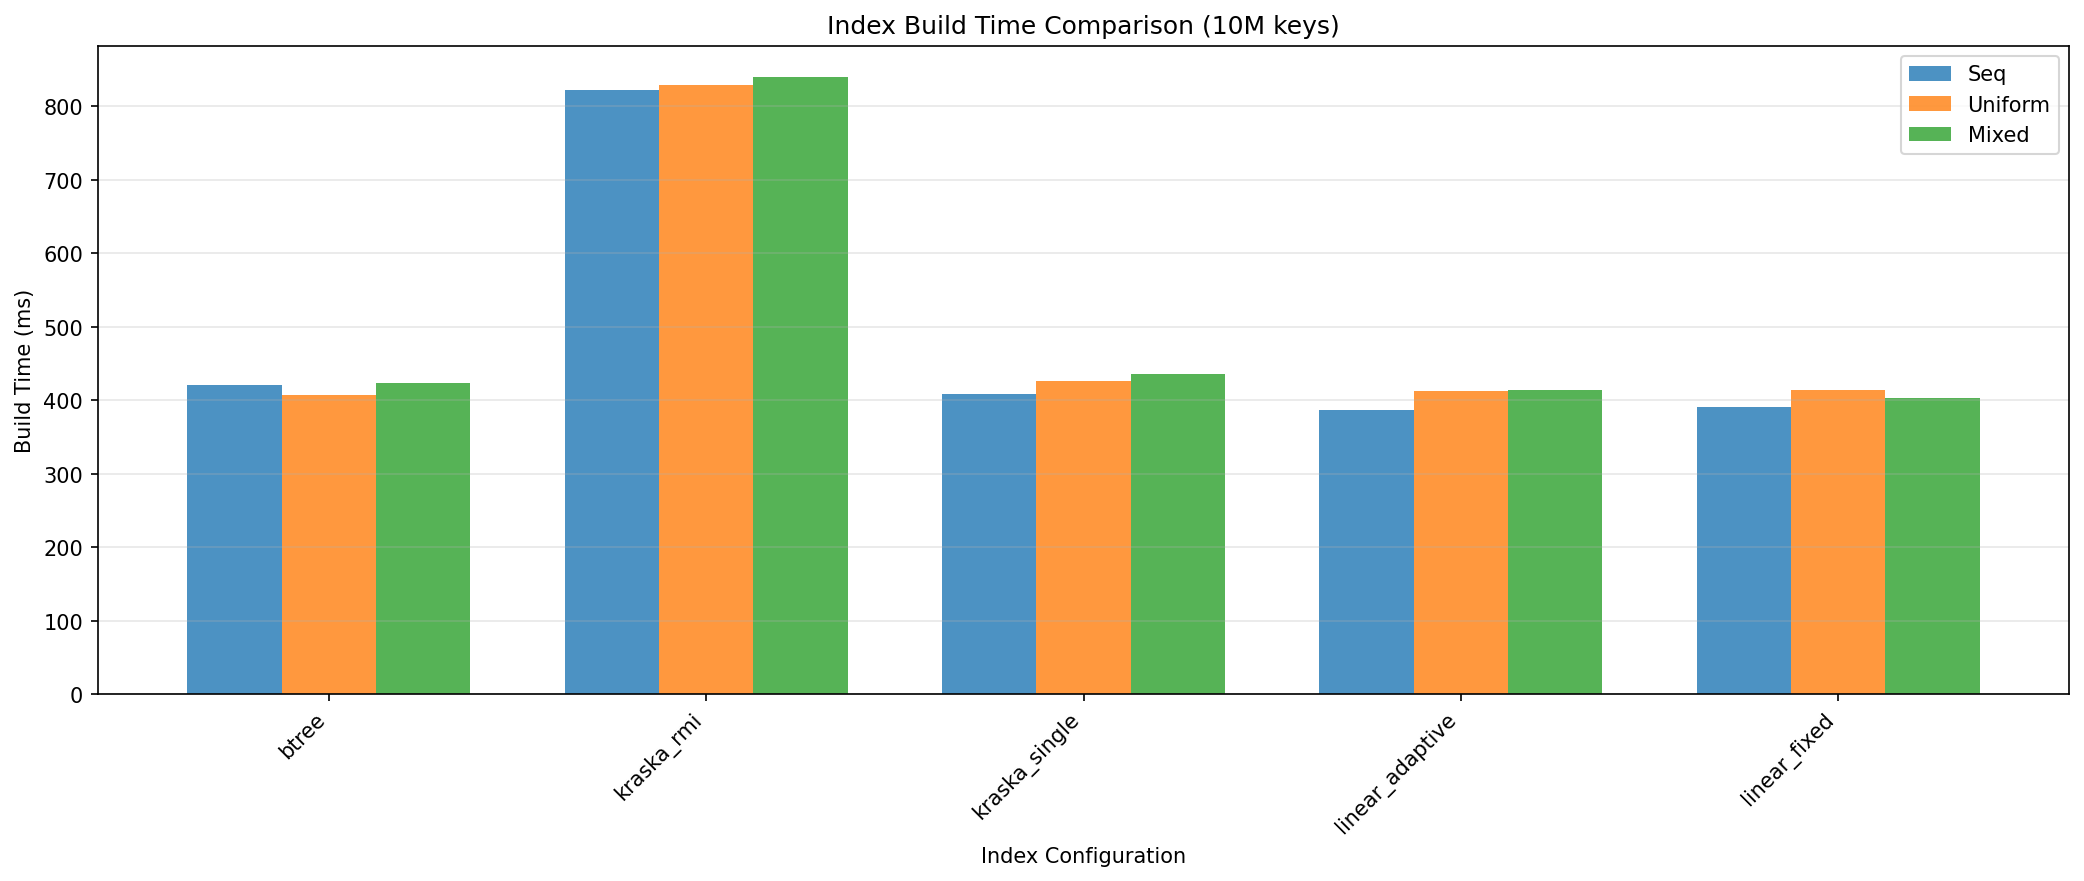
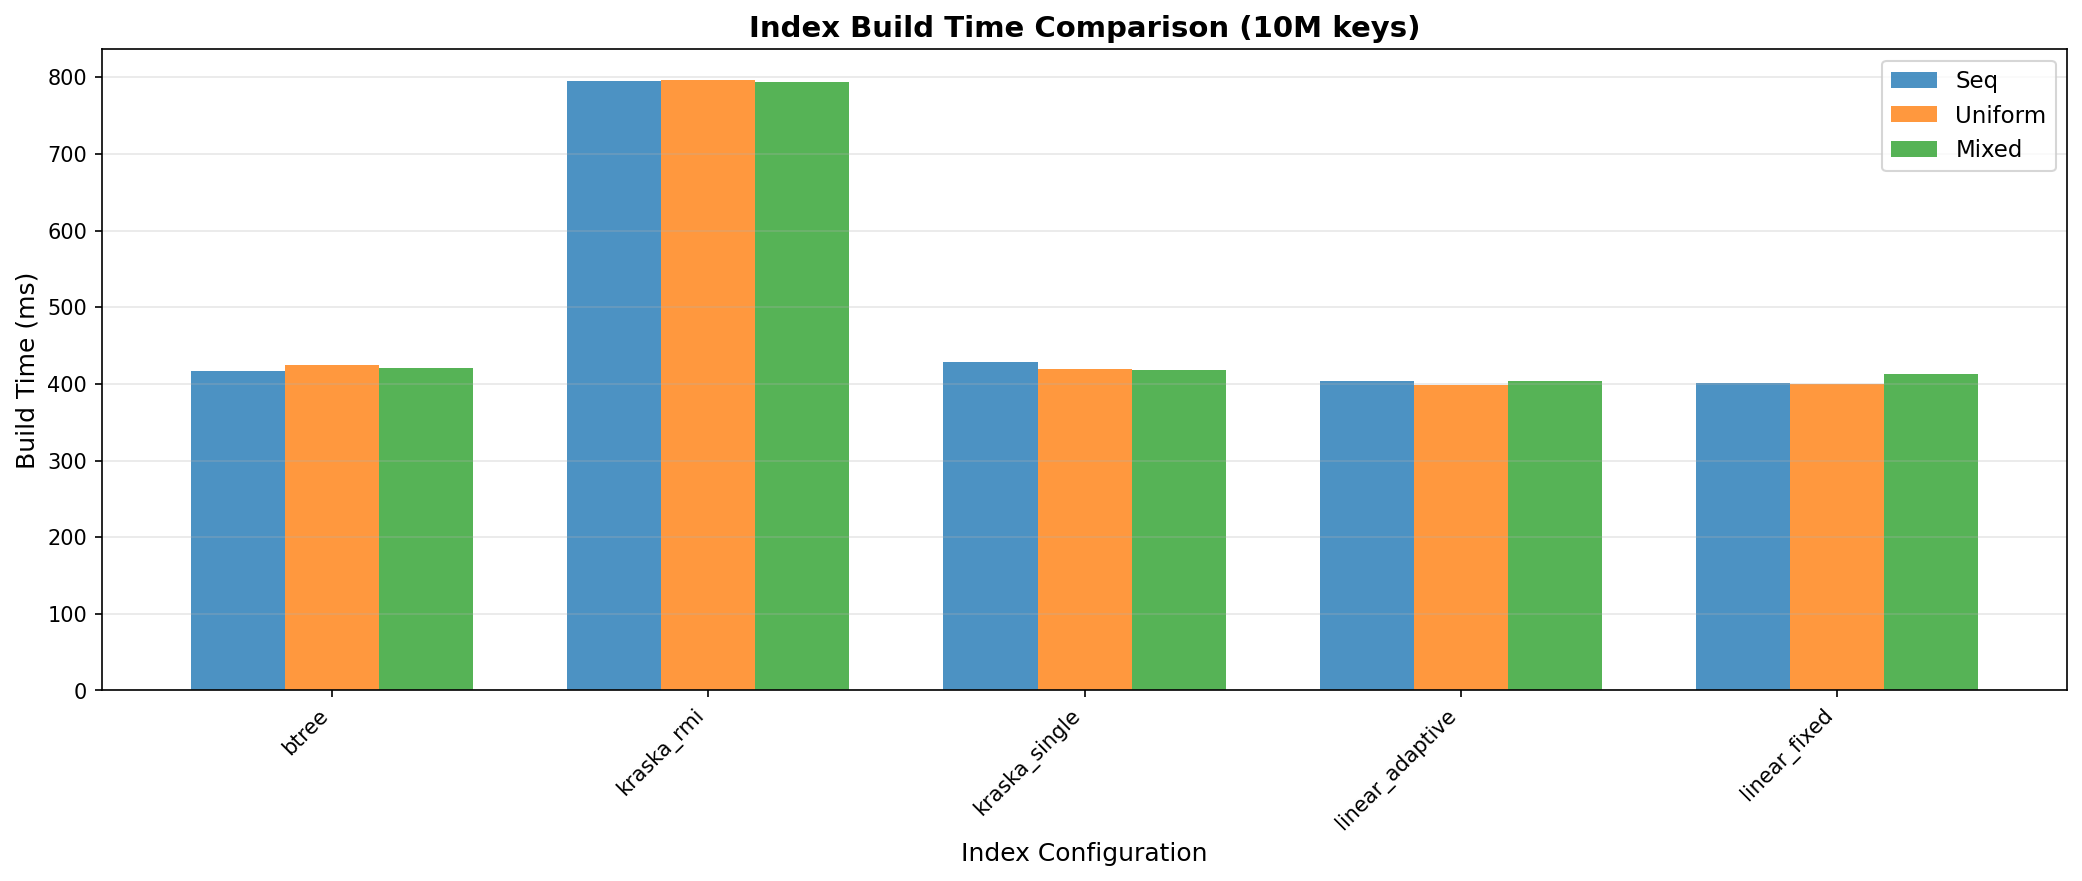
Big data run

diff --git a/main.py b/main.py
@@ -14,9 +14,9 @@ RUN_GRAPHS = True             # Generate performance graphs from benchmark data
 RUN_EXPLORATORY_PLOTS = False # Generate exploratory plots (uses test data, not benchmark results)
 
 # Benchmark settings
-DATASET_SIZES = [10_000, 100_000]              # Number of keys to test [100_000, 1_000_000, 100_000_000]
+DATASET_SIZES = [10_000, 100_000, 1_000_000, 10_000_000, 100_000_000]              # Number of keys to test [100_000, 1_000_000, 100_000_000]
 DISTRIBUTIONS = ["seq", "uniform", "mixed"]  # Data patterns
-REPEAT_CYCLES = 1                        # Times to repeat (higher = better statistics)
+REPEAT_CYCLES = 5                        # Times to repeat (higher = better statistics)
 
 # ACCURACY VALIDATION (Critical!)
 VALIDATE_ACCURACY = True       # Check if searches return correct results
